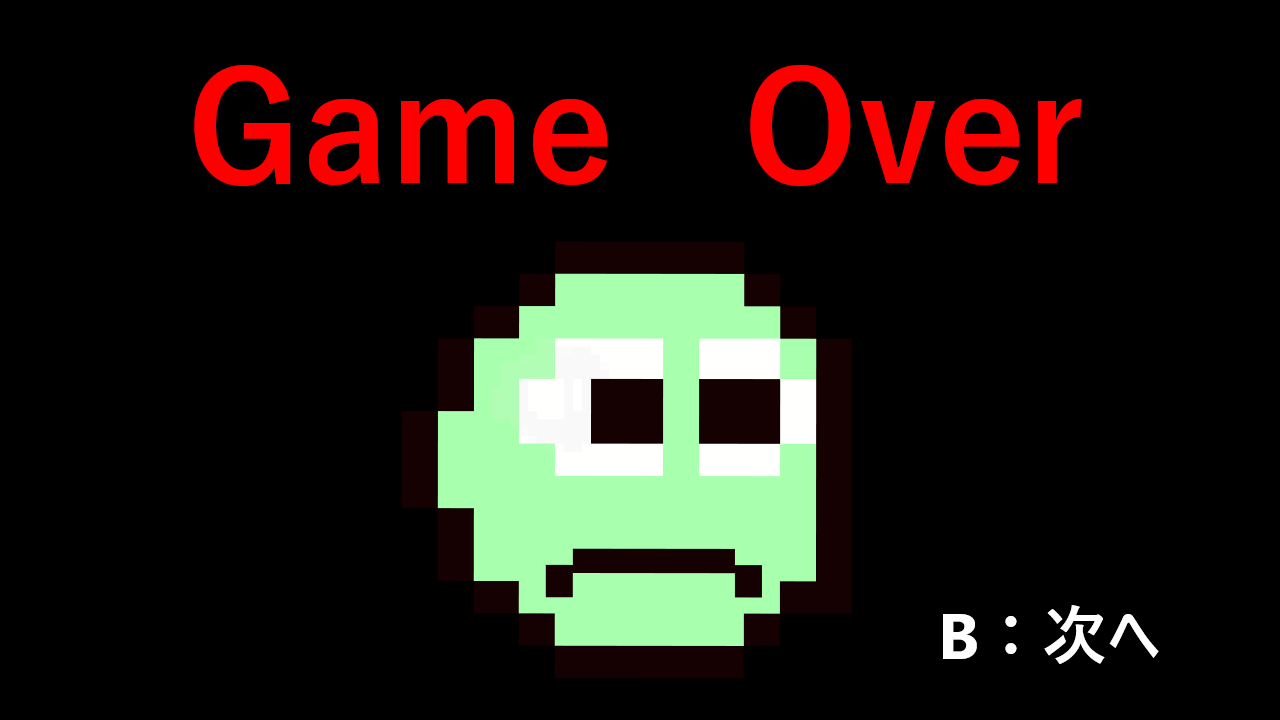
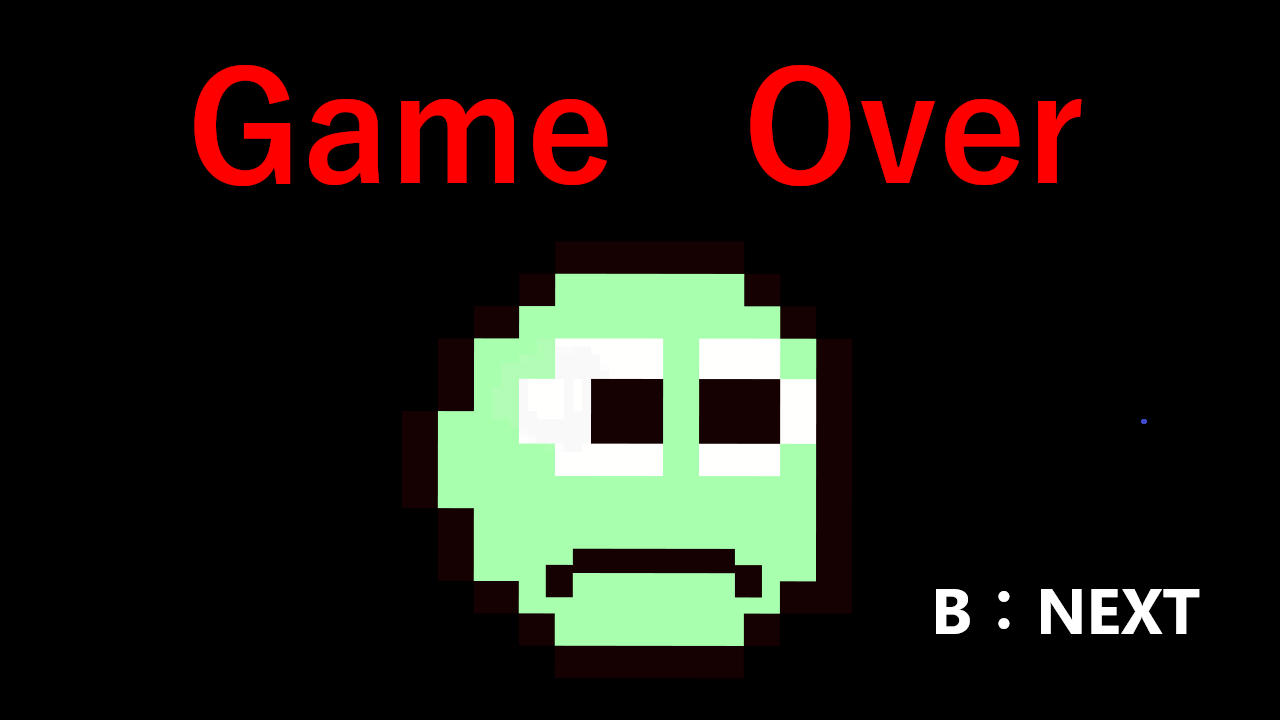
エクストラのゲームオーバー画面変更、ゲーム全クリア画面変更、タイトル画面少し変更、Next処理少し変更

Changed region(s): [[0.7188, 0.7944, 0.9375, 0.9167]]

diff --git a/Rock-Paper-Scissors/Scene_NextStage.h b/Rock-Paper-Scissors/Scene_NextStage.h
@@ -14,7 +14,7 @@ public:
 
 private:
 	int Next;
-	int nextImage[10];
+	int nextImage[11];
 	int next_se;
 
 	int frameCount;
